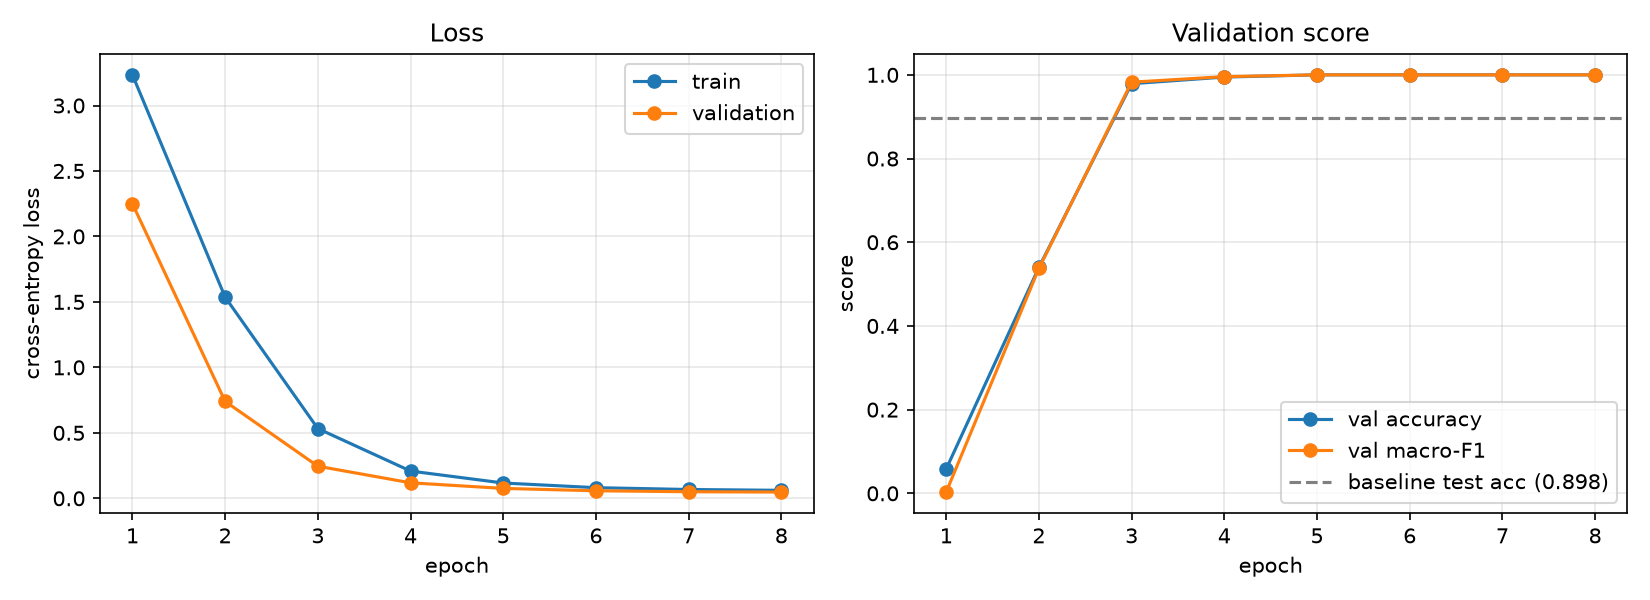
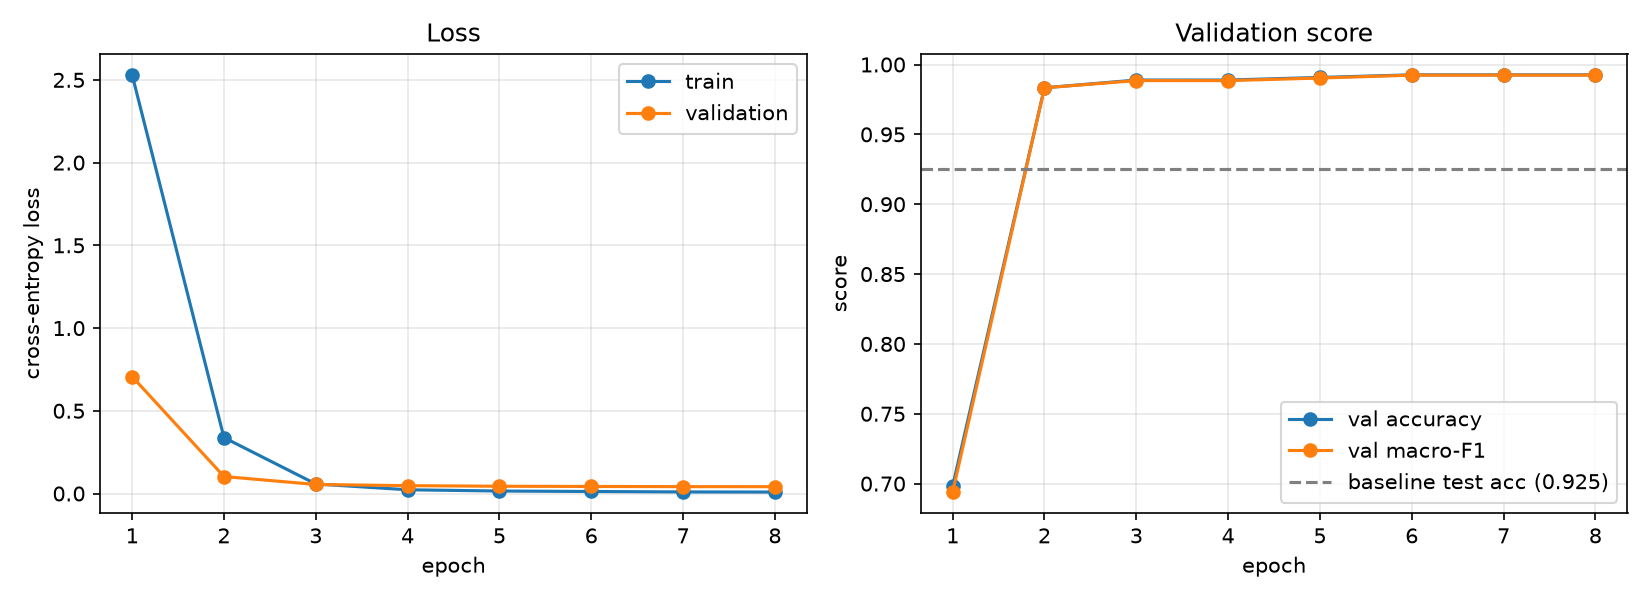
Retrain MPNet on expanded data (3600 train / 360 test)
Re-ran baseline.py, train.py and plot_curves.py on the current data.
Baseline 92.5% -> fine-tuned 98.6% test accuracy (macro-F1 98.6%).
Updated baseline.txt, runs/ artifacts, and the results in notes.md.

diff --git a/notes/notes.md b/notes/notes.md
@@ -12,19 +12,30 @@ python code/voice.py         # optional, mic or .wav files
 ```
 
 ## Results
-- Data: synthetic (LLM-generated) + handwritten. Same `train.jsonl` / `test.jsonl` as the MiniLM run, plus 10 handwritten `unhandled` near-misses (weather / ambient heat) added after the first round of failures
+- Data: synthetic (LLM-generated) + handwritten. `train.jsonl` is now 3600 rows (3060 train / 540 val) and `test.jsonl` is 360 handwritten sentences (180 normal + 180 astronaut-style), up from 1258 / 186 in the first MPNet run
 - Model (see MODELS.md): MPNet (`sentence-transformers/all-mpnet-base-v2`, 110M params, 768-dim)
-- Baseline accuracy (baseline.txt): 89.8% / macro-F1 91.0%
-- Fine-tuned accuracy / macro-F1 (runs/metrics.json): 96.8% / 97.1% (val 100% / 100%)
+- Baseline accuracy (baseline.txt): 92.5% / macro-F1 92.4%
+- Fine-tuned accuracy / macro-F1 (runs/metrics.json): **98.6% / 98.6%** (val 99.3% / 99.2%, 5 test misses out of 360)
+- Retrained 2026-10-28 on the expanded data, same hyperparameters as below
 
-### MPNet vs MiniLM (same test.jsonl, 186 handwritten sentences)
+### Current run vs first MPNet run
+| | First run (1258 train rows, 186 test) | Current (3600 train rows, 360 test) |
+|---|---|---|
+| Baseline accuracy / macro-F1 | 89.8% / 91.0% | 92.5% / 92.4% |
+| Fine-tuned accuracy / macro-F1 | 96.8% / 97.1% | **98.6% / 98.6%** |
+| Val accuracy / macro-F1 | 100% / 100% | 99.3% / 99.2% |
+
+- The two test sets differ, so this isn't a strict like-for-like comparison, but the new test set is twice as big and includes astronaut-style phrasing
+- Validation misses (4 of 540): `set nav site Yankee` -> unhandled, and three off-topic sentences pulled into a real intent (`what's the battery in a tesla` -> get_primary_battery_level, `sorry wrong button` -> close_menu, `explain how a fan works` -> get_fan_pri_rpm). The model still over-matches on keywords like "battery" and "fan"
+
+### MPNet vs MiniLM (first run's test.jsonl, 186 handwritten sentences)
 | | MiniLM baseline | MiniLM fine-tuned | MPNet baseline | MPNet fine-tuned |
 |---|---|---|---|---|
 | Test accuracy | 93.0% | 96.2% | 89.8% | **96.8%** |
 | Test macro-F1 | 93.6% | 96.5% | 91.0% | **97.1%** |
 
 - Frozen MPNet is *worse* than frozen MiniLM here (89.8 vs 93.0), but it gains much more from fine-tuning (+7.0 vs +3.2 points), so it ends up slightly ahead
-- Confidence is a lot higher on correct answers: most unseen sentences below are 0.93-0.97 vs 0.83-0.95 with MiniLM
+- MiniLM hasn't been retrained on the expanded data yet, so this table is still on the old 186-sentence test set
 
 ### Hyperparameters (changed from the MiniLM run)
 | | MiniLM | MPNet | Why |
@@ -36,30 +47,32 @@ python code/voice.py         # optional, mic or .wav files
 | warmup | 0.4 | 0.1 | |
 
 ## Unseen sentences (10+)
+Re-run on the 2026-10-28 model. Sentences marked * are now in the expanded `train.jsonl`, so they're no longer truly unseen (the other 13 still are).
+
 | Sentence | Predicted | Confidence | Correct? |
 |---|---|---|---|
-| how much oxygen do I have | get_oxy_pri_storage | 0.965 | Yes |
-| navigate to Ithaca | Set_navigation_target (slot: Ithaca) | 0.934 | Yes |
-| drop a pin called rock cluster | Add_waypoint (slot: rock cluster) | 0.949 | Yes |
-| get rid of the crater waypoint | Delete_waypoint (slot: crater) | 0.957 | Yes |
-| where is the lander | Get_coordinates (slot: lander) | 0.947 | Yes |
-| I finished the sample collection | Complete_task (slot: sample collection) | 0.865 | Yes |
-| bring out the map | open_menu_navigation | 0.970 | Yes |
-| find a new path around the crater | reroute_navigation | 0.950 | Yes |
-| how's my heart | get_heart_rate | 0.955 | Yes (MiniLM said unhandled 0.41) |
-| am I running low on oxygen | get_oxy_pri_storage | 0.961 | Yes (MiniLM said get_oxy_consumption) |
-| scrubber ACO2 storage | get_scrubber_a_co2_storage | 0.941 | Yes (the Whisper merge that dropped MiniLM to 0.67) |
-| what's the second fan spinning at | get_fan_sec_rpm | 0.954 | Yes |
-| what's the backup battery at | get_secondary_battery_level | 0.966 | Yes |
-| tank two pressure | get_oxy_sec_pressure | 0.960 | Yes |
-| mark the egress task complete | Complete_task (slot: egress) | 0.952 | Yes |
-| erase the pebble field waypoint | Delete_waypoint (slot: pebble field) | 0.957 | Yes |
-| set a course for the north ridge | Set_navigation_target (slot: north ridge) | 0.916 | Yes (after fix #3) |
-| plot a path to the drill site | Set_navigation_target (slot: drill site) | 0.819 | Yes (after fix #3) |
-| what's the weather on mars | unhandled | 0.951 | Yes (after fix #2, was get_temperature 0.69) |
-| I'm feeling dizzy | unhandled | 0.804 | Yes |
-| pressure | unhandled | 0.326 | Yes (ambiguous, so good it refused) |
-| is it chilly outside | get_temperature | 0.811 | **No**, outside temp isn't suit temp |
+| how much oxygen do I have | get_oxy_pri_storage | 0.993 | Yes |
+| navigate to Ithaca | Set_navigation_target (slot: Ithaca) | 0.989 | Yes |
+| drop a pin called rock cluster | Add_waypoint (slot: rock cluster) | 0.995 | Yes |
+| get rid of the crater waypoint | Delete_waypoint (slot: crater) | 0.995 | Yes |
+| where is the lander | Get_coordinates (slot: lander) | 0.995 | Yes |
+| I finished the sample collection | Complete_task (slot: sample collection) | 0.995 | Yes |
+| bring out the map * | open_menu_navigation | 0.996 | Yes |
+| find a new path around the crater * | reroute_navigation | 0.995 | Yes |
+| how's my heart | get_heart_rate | 0.995 | Yes (MiniLM said unhandled 0.41) |
+| am I running low on oxygen * | get_oxy_pri_storage | 0.993 | Yes (MiniLM said get_oxy_consumption) |
+| scrubber ACO2 storage | get_scrubber_a_co2_storage | 0.994 | Yes (the Whisper merge that dropped MiniLM to 0.67) |
+| what's the second fan spinning at * | get_fan_sec_rpm | 0.995 | Yes |
+| what's the backup battery at | get_secondary_battery_level | 0.995 | Yes |
+| tank two pressure * | get_oxy_sec_pressure | 0.993 | Yes |
+| mark the egress task complete | Complete_task (slot: egress) | 0.995 | Yes |
+| erase the pebble field waypoint | Delete_waypoint (slot: pebble field) | 0.995 | Yes |
+| set a course for the north ridge | Set_navigation_target (slot: north ridge) | 0.994 | Yes (after fix #3) |
+| plot a path to the drill site | Set_navigation_target (slot: drill site) | 0.994 | Yes (after fix #3) |
+| what's the weather on mars * | unhandled | 0.992 | Yes (after fix #2, was get_temperature 0.69) |
+| I'm feeling dizzy * | unhandled | 0.975 | Yes |
+| pressure * | unhandled | 0.983 | Yes (ambiguous, so good it refused) |
+| is it chilly outside * | unhandled | 0.993 | Yes (first run said get_temperature 0.81) |
 
 ## What failed and why
 1. **First fine-tune predicted `unhandled` for everything (5% accuracy)**
@@ -69,7 +82,7 @@ python code/voice.py         # optional, mic or .wav files
 2. **Anything about heat/weather -> `get_temperature`**
    - "what's the weather on mars" gave get_temperature (0.69). The data only had "temperature" meaning suit temp, so the model learned "hot/cold/weather" = suit temperature
    - Fix: added 10 handwritten unhandled near-misses ("is it going to rain", "how hot is the surface of the moon", "what's the temperature back in houston", ...), retrained. Weather on mars is now unhandled at 0.95
-   - Still fails on "is it chilly outside" (0.81). Need more examples about outside / ambient temperature
+   - "is it chilly outside" still failed in the first run (get_temperature 0.81). With the expanded data (which now includes it) it comes back unhandled at 0.99
 3. **Slot extraction kept command words**
    - "set a course for the north ridge" -> slot "course for the north ridge", "plot a path to the drill site" -> the whole sentence
    - Fix: added "course", "path", "plot" to `LEAD` in predict.py
